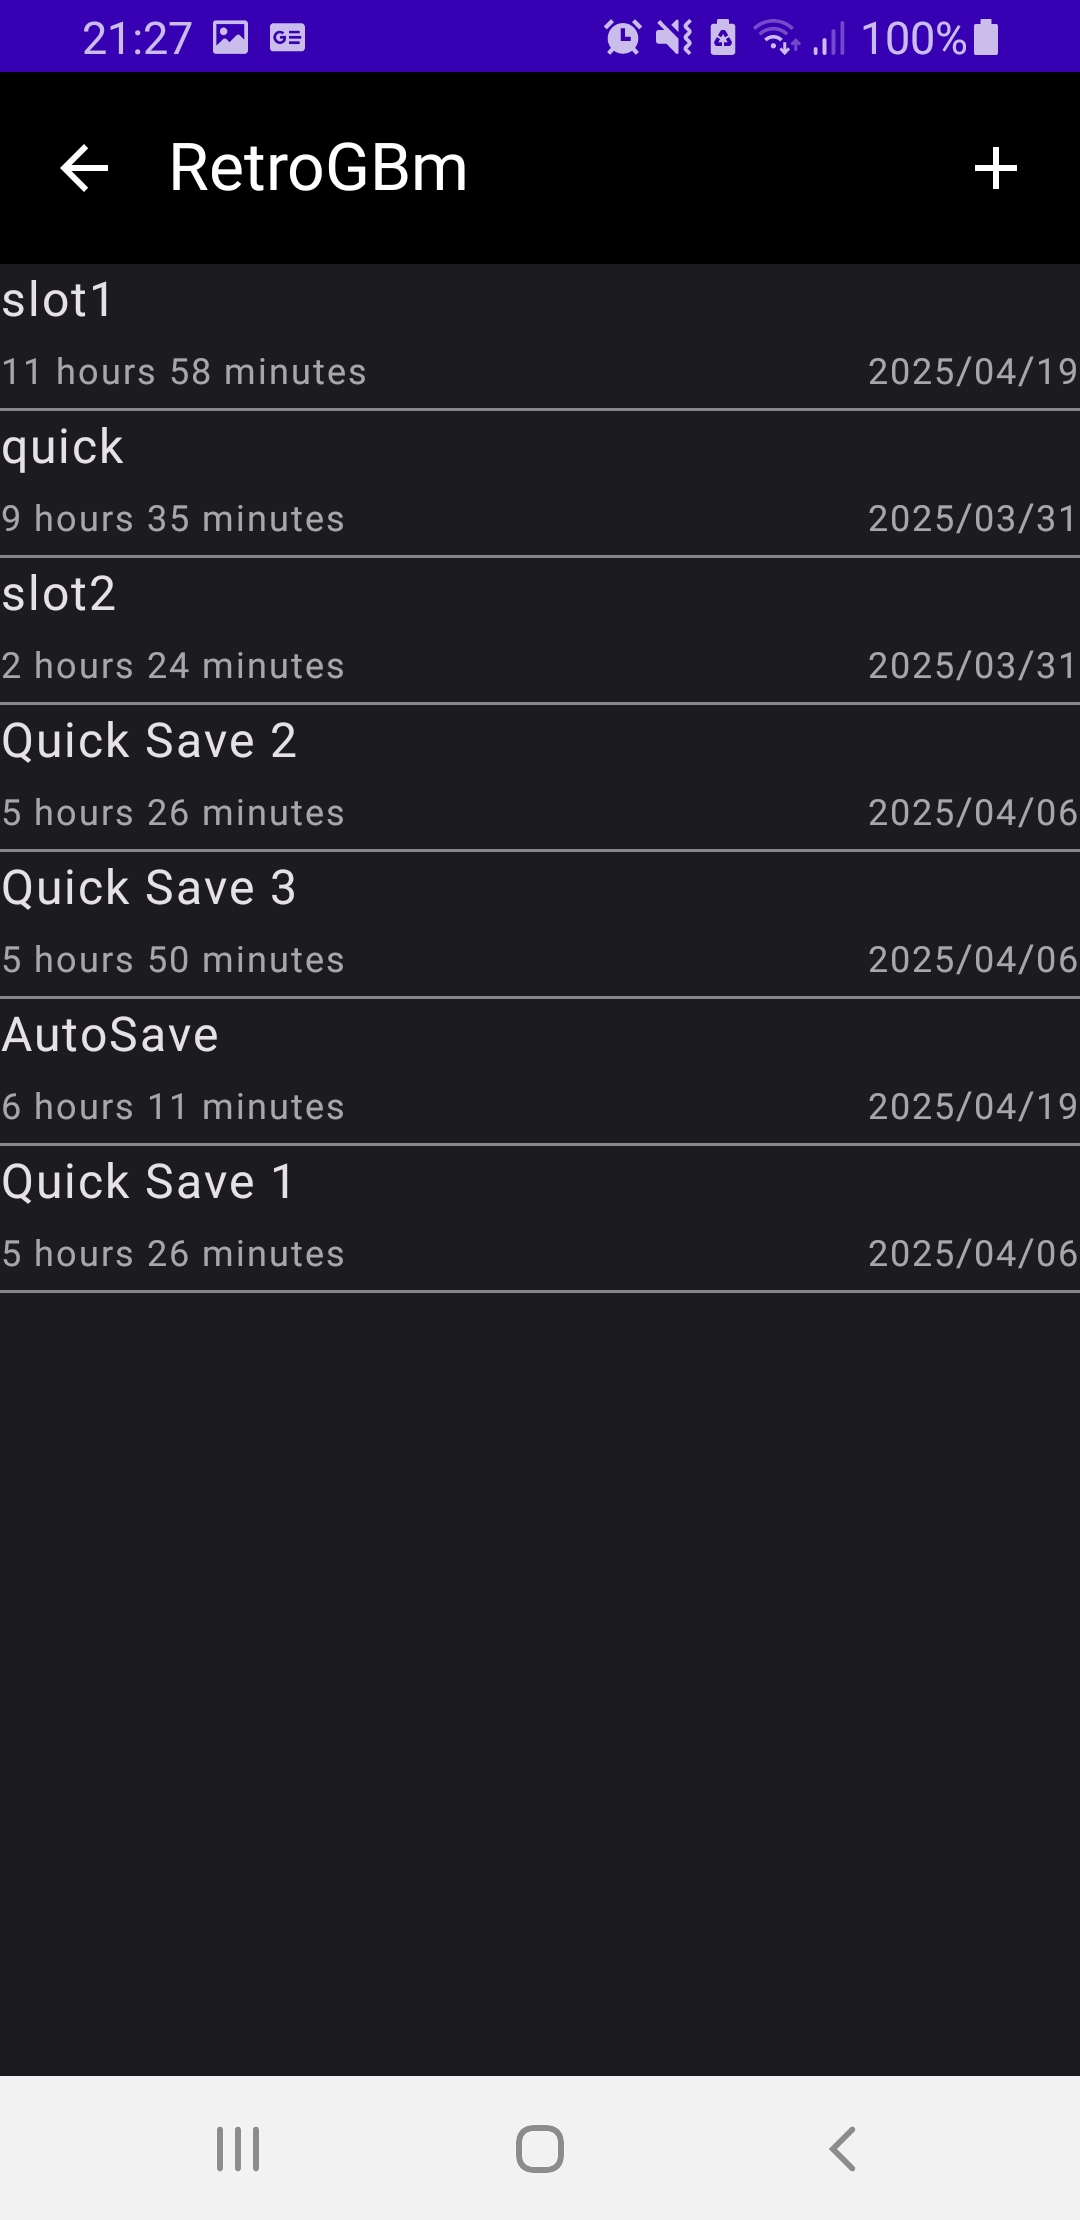
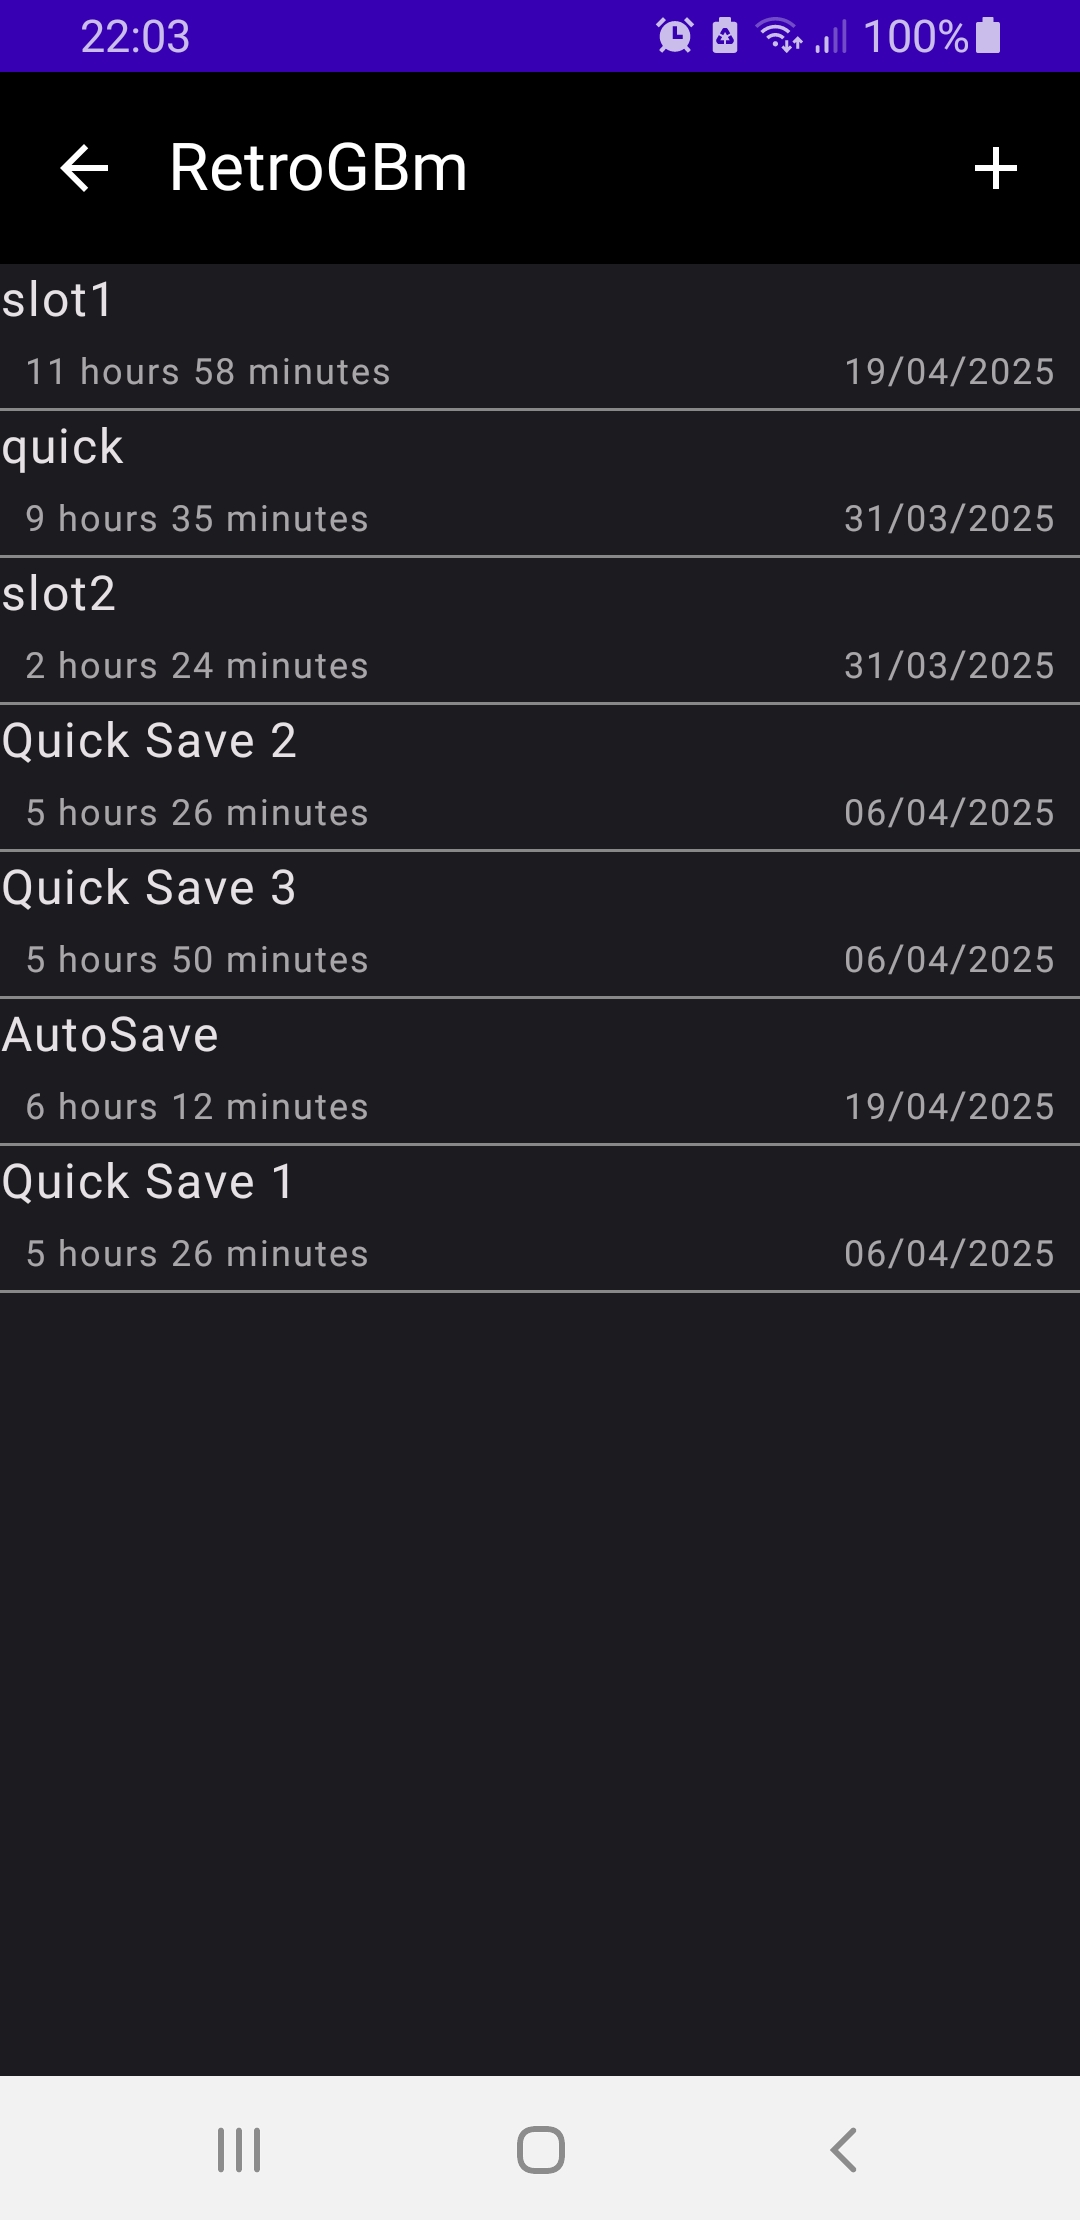
Made the Android savestate activity layout more consisent (#210)

diff --git a/Android/app/src/main/java/com/retrogbm/SaveStateActivity.kt b/Android/app/src/main/java/com/retrogbm/SaveStateActivity.kt
@@ -122,7 +122,7 @@ fun formatDateModified(dateModified: Long): String {
     // Convert Instant to local date (assuming system's default time zone)
     val localDate = instant.atZone(ZoneId.systemDefault()).toLocalDate()
     // Format the date as "yyyy/MM/dd"
-    val formatter = DateTimeFormatter.ofPattern("yyyy/MM/dd", Locale.ENGLISH)
+    val formatter = DateTimeFormatter.ofPattern("dd/MM/yyyy", Locale.ENGLISH)
     return localDate.format(formatter)
 }
 
@@ -199,8 +199,6 @@ fun InputDialog(
     onConfirm: (String) -> Unit
 ) {
     var text by remember { mutableStateOf("") }
-
-    val titleColor = MaterialTheme.colorScheme.onSurface
 
     AlertDialog(
         onDismissRequest = onDismiss,
@@ -436,7 +434,9 @@ fun SaveStateSlotCard(data: SaveStateData, onUpdate: (oldPath: String, path: Str
                 color = titleColor
             )
             Row(
-                modifier = Modifier.fillMaxWidth(),
+                modifier = Modifier
+                    .padding(horizontal = 8.dp)
+                    .fillMaxWidth(),
                 horizontalArrangement = Arrangement.SpaceBetween
             ) {
                 Text(
